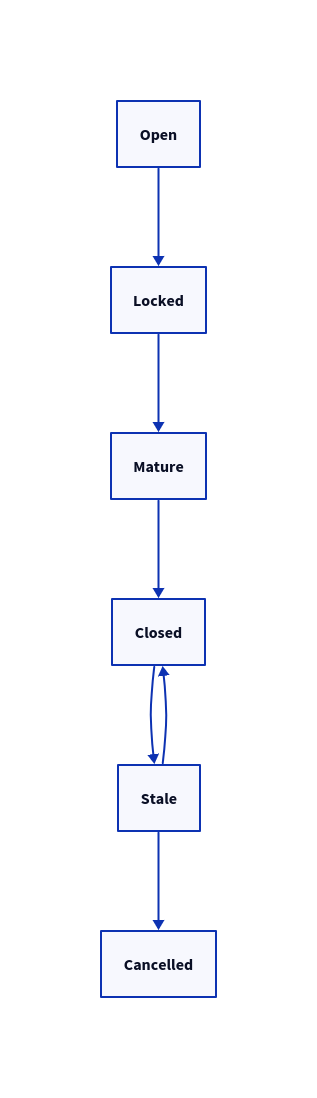
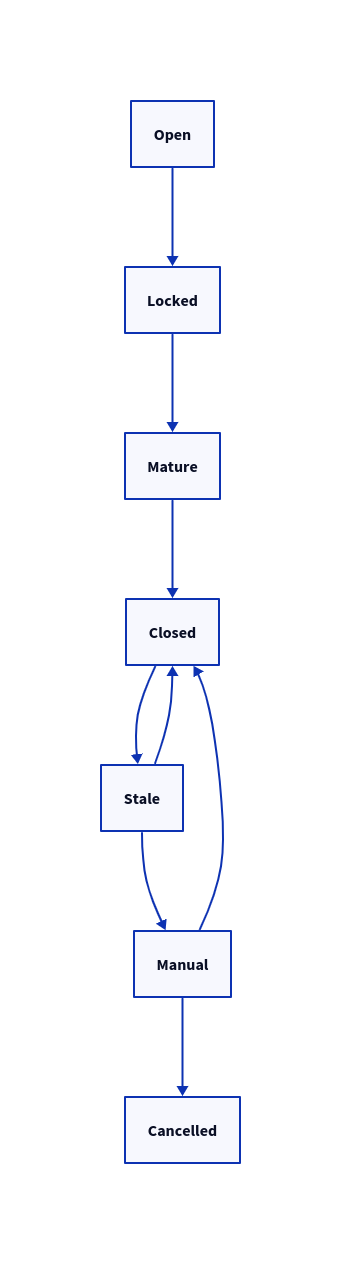
games

diff --git a/specification.md b/specification.md
@@ -49,7 +49,7 @@ The core of challenge pools is powered by a collections of contracts, oracles an
 - `closeChallenge`
 - `batchCloseChallenges`
 - `cancelChallenge`
-- `maturedChallenges`
+- `withdrawWinnings`
 
 #### TopicsRegistry Contract
 
@@ -141,3 +141,87 @@ The core of challenge pools is powered by a collections of contracts, oracles an
 
 ![States](./challenge_pool_states.png)
 
+### Open State
+
+- The initial state of every pool is open.
+- In open state anyone can join a pool.
+
+
+### Locked State
+
+- After some time a pool becomes locked.
+- Locked state prevents new participants from joining.
+- This state occurs automatically based on time to maturity.
+
+### Mature State
+
+- A pool enters mature state when the maturity time is up.
+- This state occurs automatically by comparing current block time to maturity time.
+
+### Closed State
+
+- A pool enters closed state after `closeChallenge` is successfully called.
+- After closed state players can withdraw their profit in case of win.
+
+### Stale State
+
+- A pool becomes stale if an evaluator fails to provide result for an event.
+- If pool evaluation fails, it can be retried 3 times in exponetial time intervals.
+- If after the 3 trials the pool fails to evaluate, it will be moved to Manual.
+
+### Manual State
+
+- A pool in manual state allows an admin account to decide the actual outcome of the pool. This account can be a DAO controlled account which allows multiple witnesses to attest the real world to the smart contract.
+- From this state it can also be decided to cancel the pool
+
+### Cancelled State
+
+- A pool in cancelled state has no winners or loosers.
+- All participants are able to withdraw their stake.
+
+## Soccersm Wheel Specification
+
+### What is Wheel?
+
+- It is a smart contract powered game in the soccersm ecosystem.
+- Similar to spin the wheel.
+
+### How it works.
+
+- User stakes an Trophies to spin the wheel.
+- Soccersm platform sends the results of the action to the smart contract.
+- Trophies won are transferred immediately.
+
+### Entities
+
+#### Spin
+
+- Represents a play initialization.
+- A spin is initialized by one user.
+
+## Soccersm Raffle Specification
+
+### What is Raffle?
+
+- A smart contract game that allows players to stake fixed amounts during an open period.
+- After the open period a few of the players are randomly picked using a random oracle
+- The entire pool is distributed amongst them.
+
+### How it works.
+
+- Players stake a fixed amount during an open period.
+- An oracle randomly submits a seed which is used to pick winners.
+- Entire stake is split amongst winners.
+- This is a repeating hourly cylcles called epochs.
+
+### Entities
+
+#### Raffle
+
+- Represents pool for each epoch of the raffle.
+- There can only be one `Raffle` at a time.
+
+#### Methods
+- `createRaffle`
+- `joinRaffle`
+- `withdrawWinnings`
